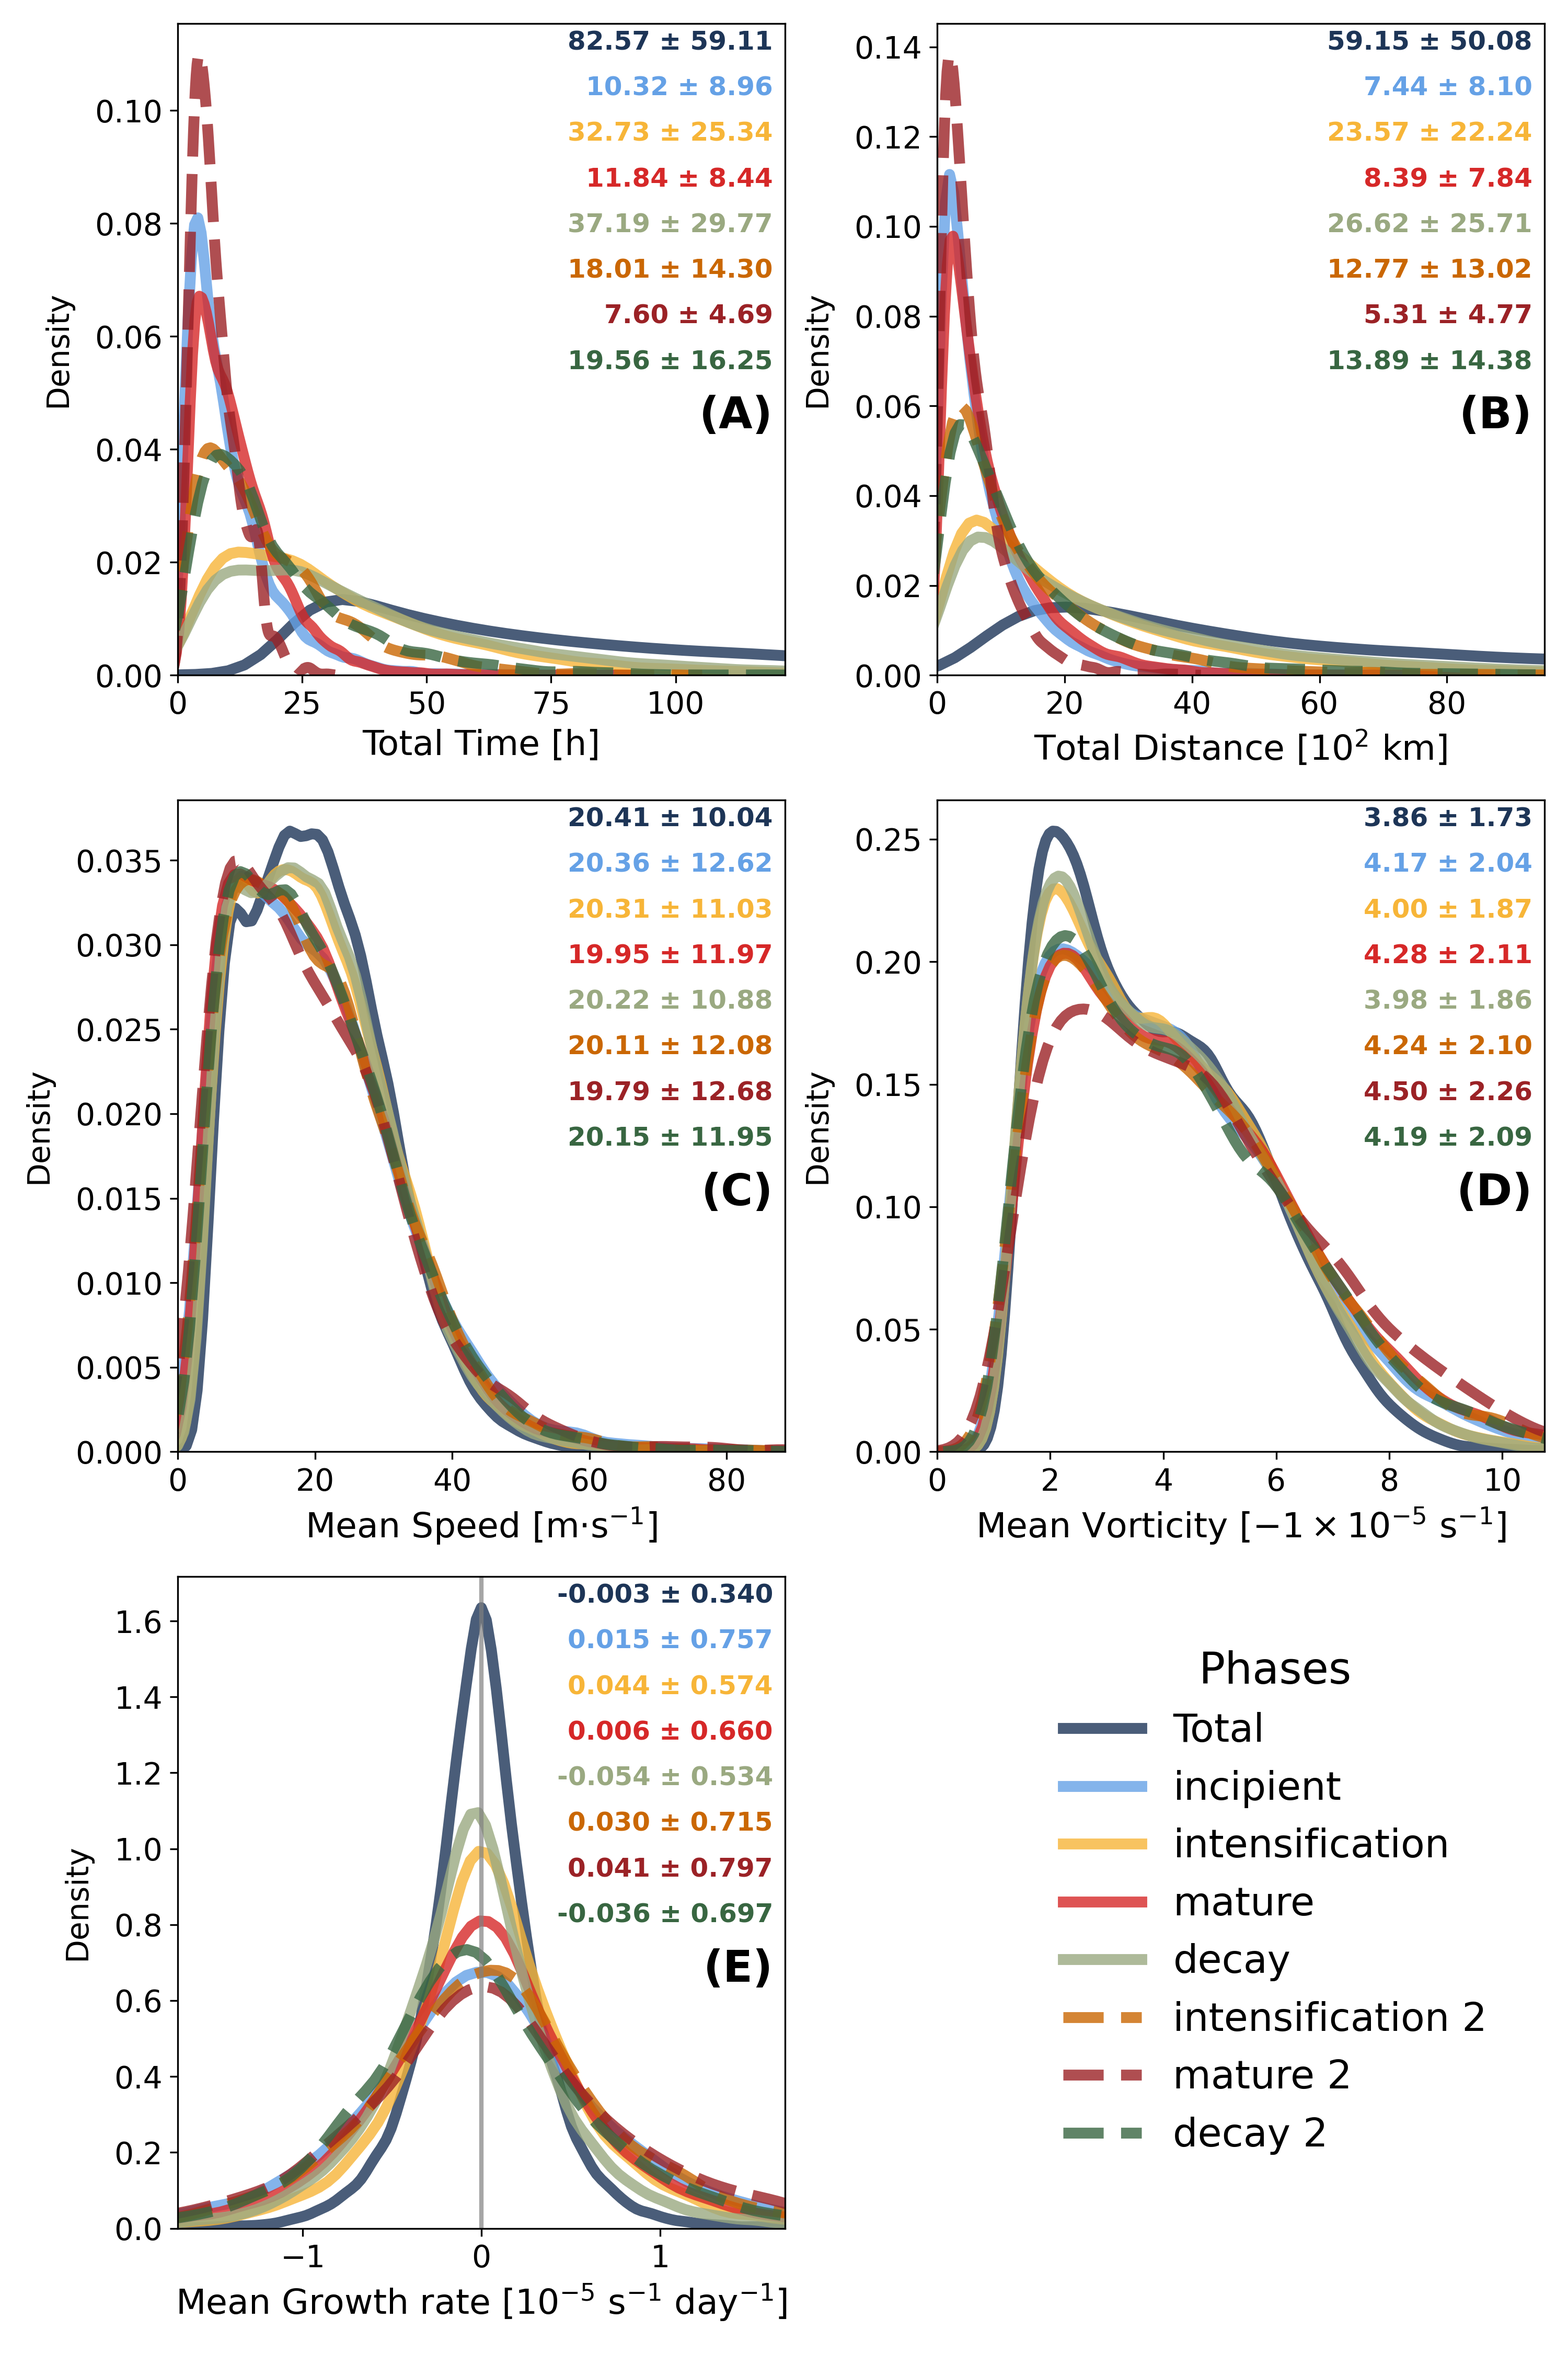
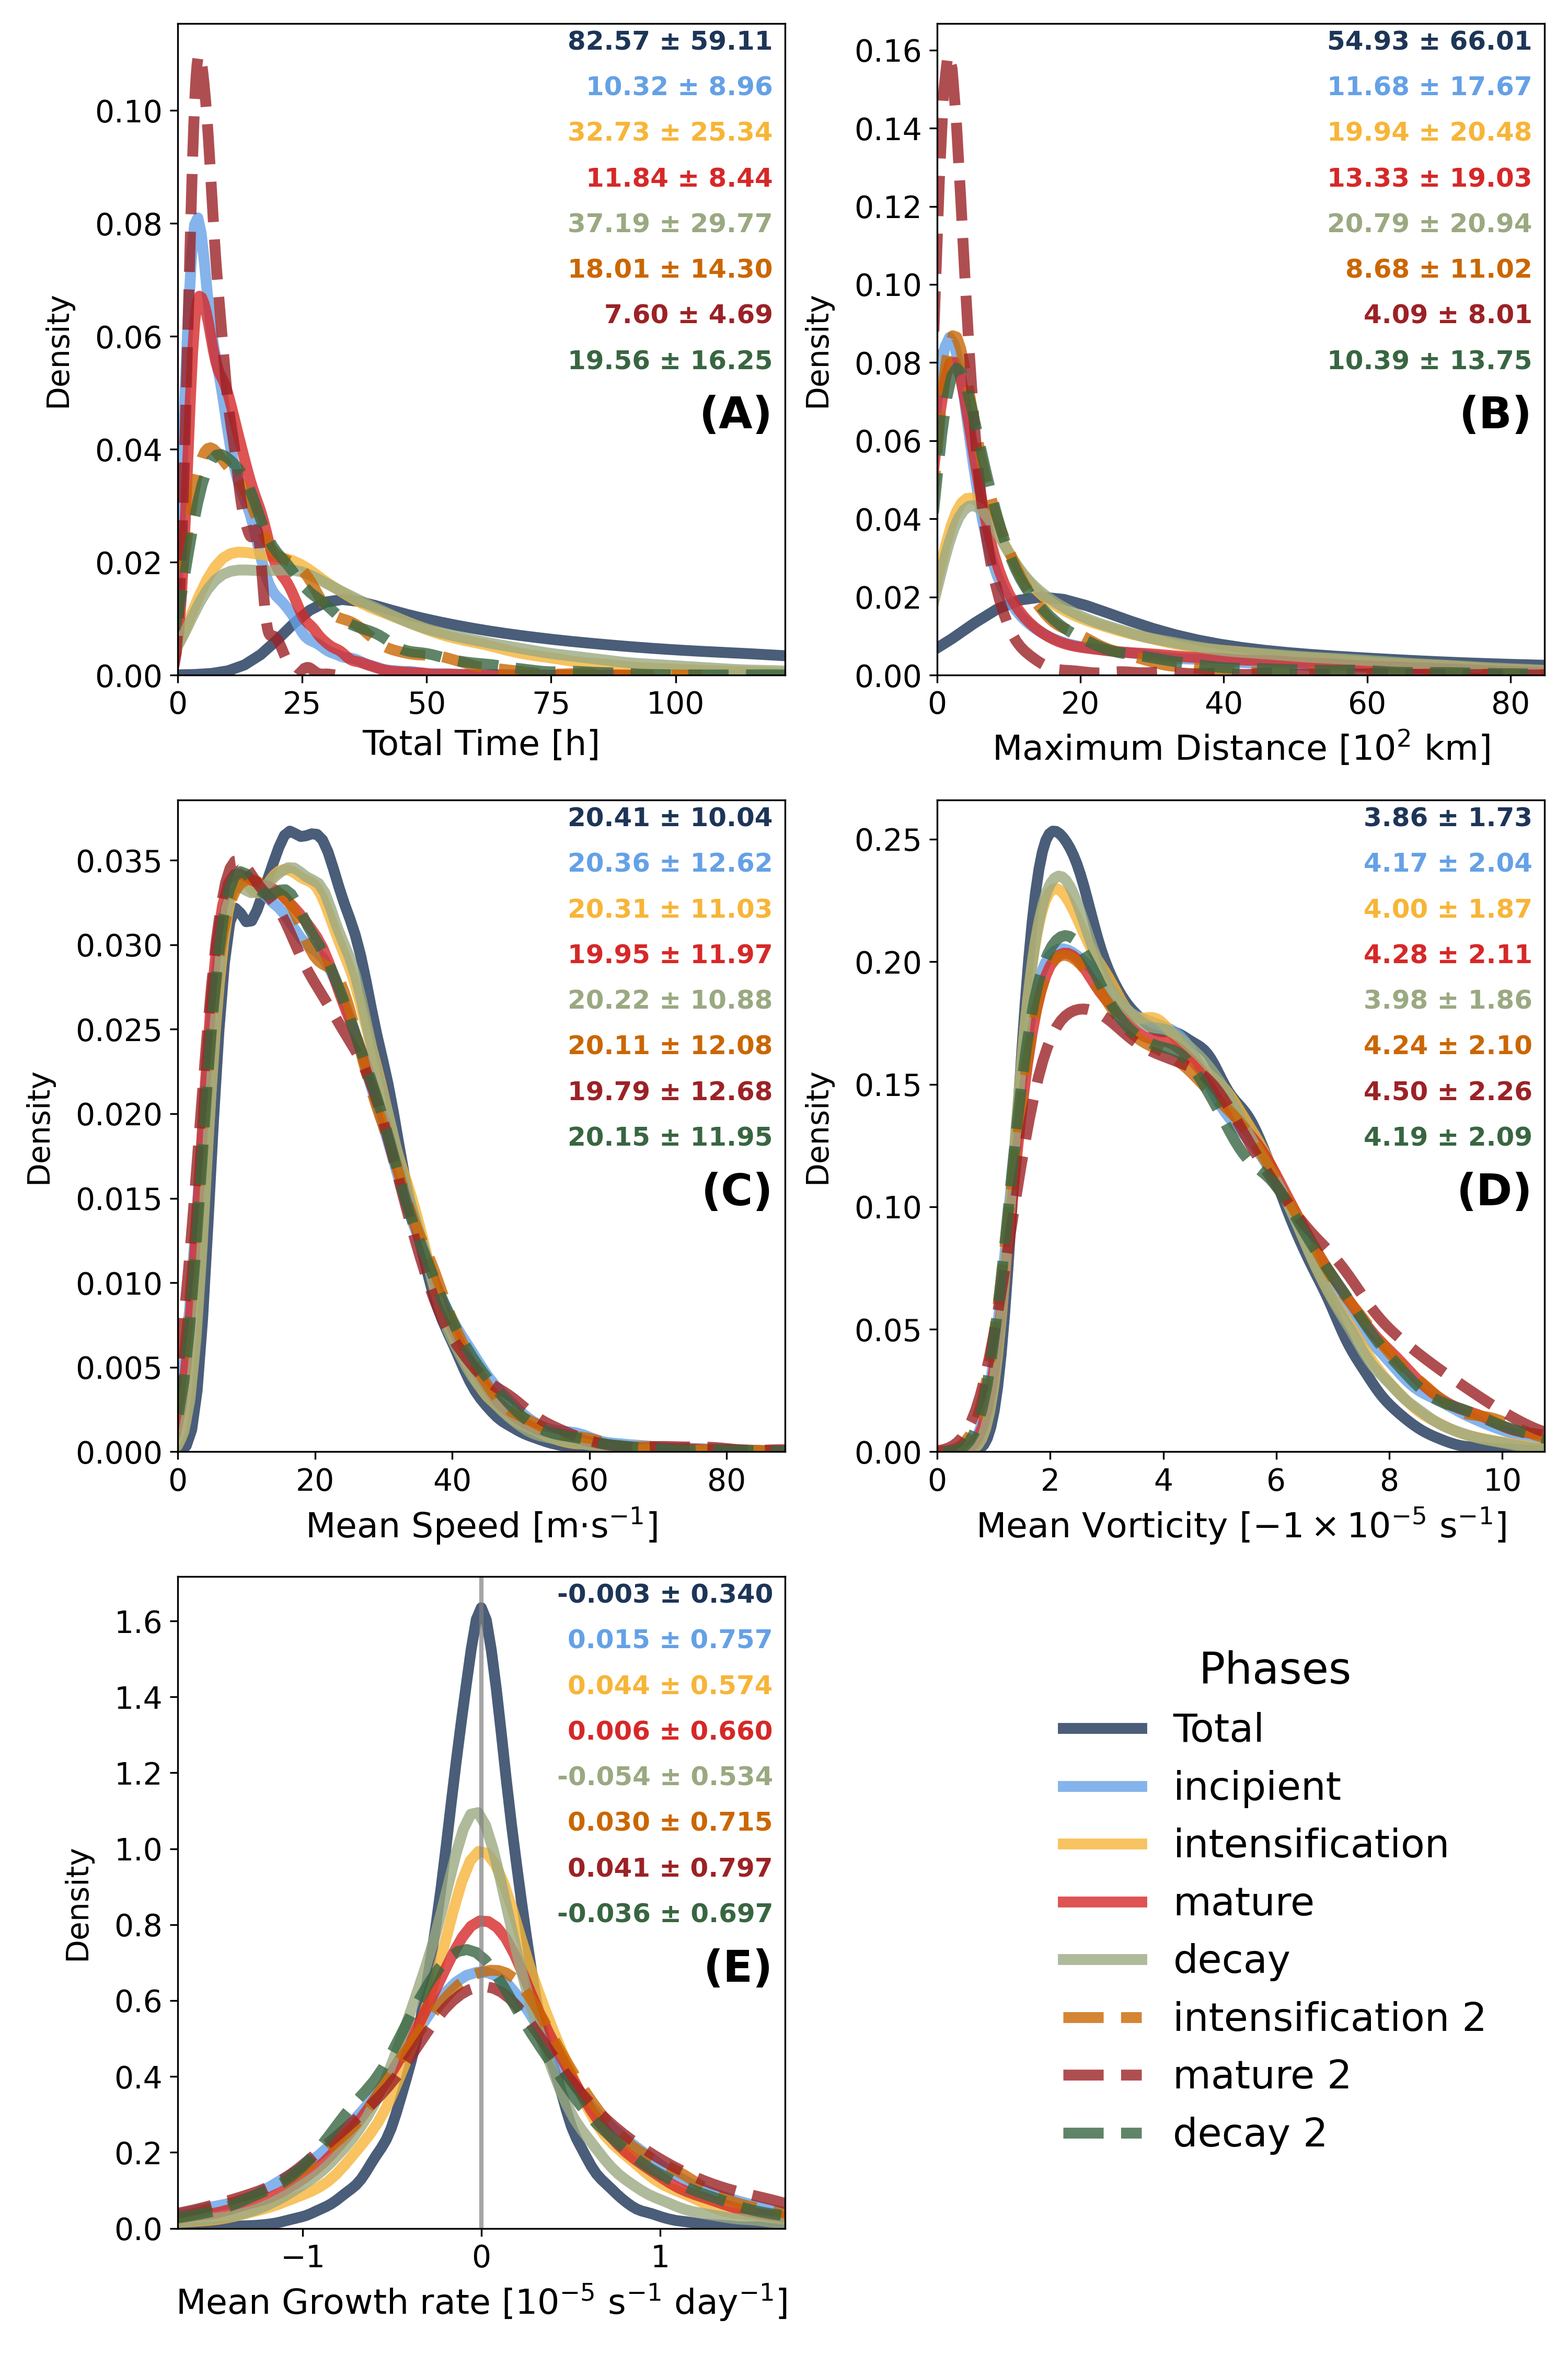
PDFs with maximum distance

Changed region(s): [[0.558, 0.0622, 0.992, 0.3422], [0.837, 0.0311, 0.992, 0.1556], [0.93, 0.1244, 0.961, 0.1556]]

diff --git a/src_manuscript_life-cycle/histograms.py b/src_manuscript_life-cycle/histograms.py
@@ -6,7 +6,7 @@
 #    By: daniloceano <daniloceano@student.42.fr>    +#+  +:+       +#+         #
 #                                                 +#+#+#+#+#+   +#+            #
 #    Created: 2023/10/30 19:37:18 by daniloceano       #+#    #+#              #
-#    Updated: 2023/11/09 17:44:25 by daniloceano      ###   ########.fr        #
+#    Updated: 2023/11/09 19:16:27 by daniloceano      ###   ########.fr        #
 #                                                                              #
 # **************************************************************************** #
 
@@ -22,7 +22,7 @@ from scipy.stats import levene, ttest_ind, mannwhitneyu, anderson, ks_2samp
 SECONDS_IN_AN_HOUR = 3600
 ALPHA = 0.05  # Significance level
 ANALYSIS_TYPE = '70W-no-continental'
-METRICS = ['Total Time (h)', 'Total Distance (km)', 'Mean Speed (m/s)',
+METRICS = ['Total Time (h)', 'Maximum Distance (km)', 'Mean Speed (m/s)',
             'Mean Vorticity (−1 × 10−5 s−1)', 'Mean Growth Rate (10^−5 s^−1 day-1)']
 PHASES = ['Total', 'incipient', 'intensification', 'mature', 'decay', 'intensification 2', 'mature 2', 'decay 2', 'residual']
 REGIONS = ['Total', 'ARG', 'LA-PLATA', 'SE-BR', 'SE-SAO', 'AT-PEN', 'WEDDELL', 'SA-NAM']
@@ -67,14 +67,14 @@ LABEL_MAPPING = {
 
 METRICS_LATEX_MAPPING = {
     'Total Time (h)': r'Total Time [h]',
-    'Total Distance (km)': r'Total Distance [$10^2$ km]',
+    'Maximum Distance (km)': r'Maximum Distance [$10^2$ km]',
     'Mean Speed (m/s)': r'Mean Speed [m$\cdot$s$^{-1}$]',
     'Mean Vorticity (−1 × 10−5 s−1)': r'Mean Vorticity [$-1 \times 10^{-5}$ s$^{-1}$]',
     'Mean Growth Rate (10^−5 s^−1 day-1)': r'Mean Growth rate [$10^{-5}$ s$^{-1}$ day$^{-1}$]'
 }
 
 QUANTILE_VALUES = {
-        'Total Distance (km)': 0.9,
+        'Maximum Distance (km)': 0.9,
         'Total Time (h)': 0.95,
         'Mean Speed (m/s)': 0.999,
         'Mean Growth Rate (10^−5 s^−1 day-1)': 0.99,
@@ -94,14 +94,14 @@ def get_database():
     # (so we won't compute statistics for the first time steps)
     database = database.dropna(subset=['Mean Speed (m/s)',
                                        'Mean Growth Rate (10^−5 s^−1 day-1)']) 
-    database['Total Distance (km)'] = database['Total Distance (km)'] / 100     
+    database['Maximum Distance (km)'] = database['Maximum Distance (km)'] / 100     
     return database
 
 def metric_to_formatted_string(metric):
     """Converts metric name to a shorter formatted string."""
     mapping = {
         'Total Time (h)': 'total_time',
-        'Total Distance (km)': 'total_distance',
+        'Maximum Distance (km)': 'total_distance',
         'Mean Speed (m/s)': 'mean_speed',
         'Mean Vorticity (−1 × 10−5 s−1)': 'mean_intensity',
         'Mean Growth Rate (10^−5 s^−1 day-1)': 'mean_growth'
